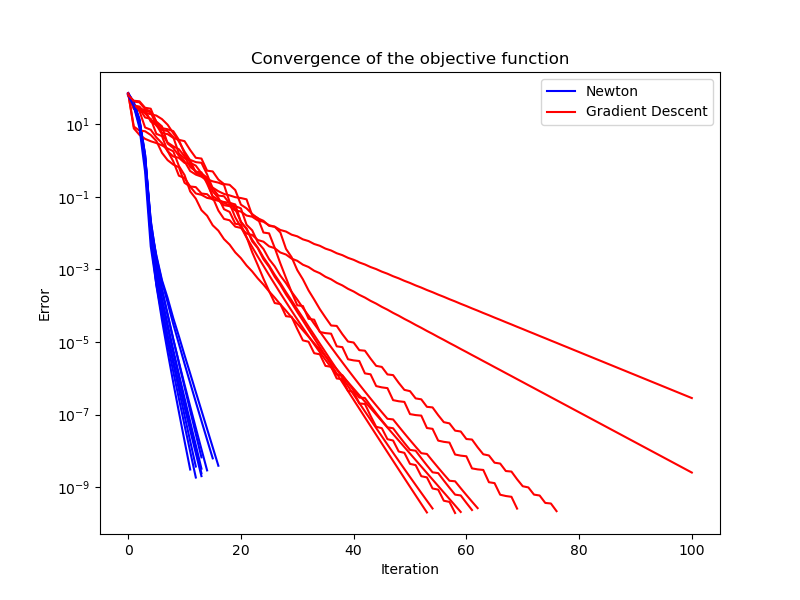
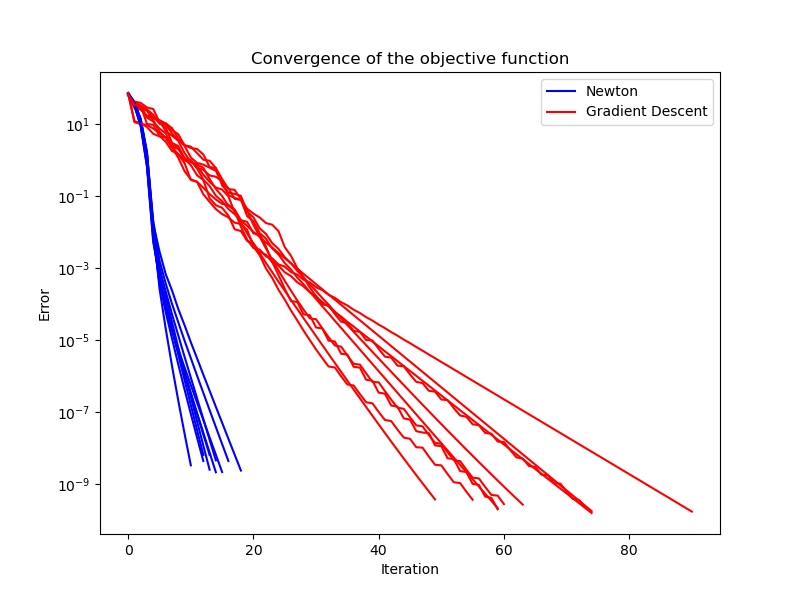
quasi

diff --git a/newton.py b/newton.py
@@ -9,14 +9,14 @@ def newton_eq(f, grad_f, nabla_f, x0, A, b, MAXITERS=100, TOL=1e-8,alpha = 0.01,
     A, b = A, b
     m, n = A.shape
     x = x0
-    decrement = lambda dx, x: (dx.dot(nabla_f(x).dot(dx)))
+    stopping_criteria = lambda dx, x: (dx.dot(nabla_f(x).dot(dx)))/2
     
     for iters in range(MAXITERS):
         dx = np.linalg.solve(
             np.block([[nabla_f(x), A.T], [A, np.zeros((m, m))]]),
             np.block([-grad_f(x), np.zeros(m)]))
         dx = dx[:n]
-        decrement_value = decrement(dx, x)/2
+        decrement_value = stopping_criteria(dx, x)
         if decrement_value < TOL:
             break
         t = 1
@@ -108,3 +108,50 @@ def gradient_descent(f, grad_f, x0, A, b, domf, MAXITERS=100, TOL=1e-8,alpha=0.0
         obj_list.append(f(x))
         # print("Iteration: %d, decrement: %.10f" % (iters, decrement_value))
     return x_list, obj_list
+
+
+def quasi_newton(f, grad_f, nabla_f, x0, A, b, domf, MAXITERS=100, TOL=1e-8,alpha = 0.01, beta = 0.8, print_iter=False, N=1, diag_only=False, decrement_func=None):
+    MAXITERS = MAXITERS
+    TOL = TOL
+    alpha = alpha
+    beta = beta
+    f, grad_f, nabla_f, domf = f, grad_f, nabla_f, domf
+    A, b = A, b
+    m, n = A.shape
+    x = x0.copy()
+    if not decrement_func:
+        decrement = lambda dx, x: (dx.dot(nabla_f(x).dot(dx)))/2
+    else:
+        decrement = decrement_func
+    decrement_value_list = []
+    obj_list = [f(x)]
+    x_list = [x]
+    nabla = nabla_f(x)
+    for iters in range(1, MAXITERS):
+        if iters % N == 0:
+            nabla = nabla_f(x)
+            if diag_only:
+                nabla = np.diag(np.diag(nabla))
+
+        dx = np.linalg.solve(nabla, -grad_f(x))
+        dx = dx[:n]
+        decrement_value = decrement(dx, x)
+        decrement_value_list.append(decrement_value)
+        if decrement_value < TOL:
+            if print_iter:
+                print("Iteration: %d, decrement: %.10f" % (iters, decrement_value))
+            break
+        t = 1
+        while not domf(x + t*dx):
+            # print("This t is not in domain: %f" % t)
+            t *= beta
+
+        while f(x + t*dx) > f(x) - alpha * t * decrement_value:
+            t *= beta
+
+        x += t*dx
+        x_list.append(x.copy())
+        obj_list.append(f(x))
+        if print_iter:
+            print("Iteration: %d, decrement: %.10f" % (iters, decrement_value))
+    return np.array(x_list), obj_list
